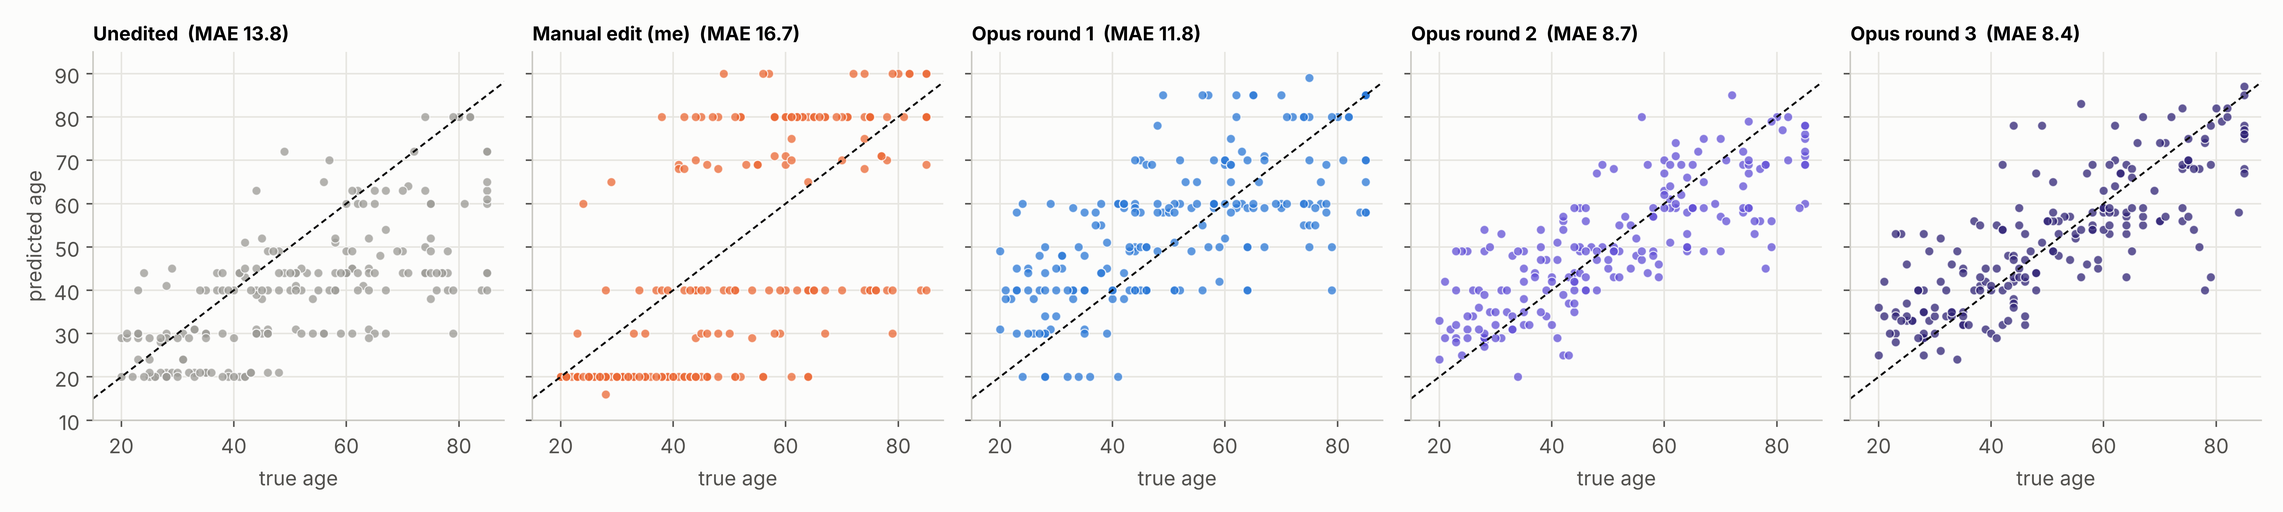
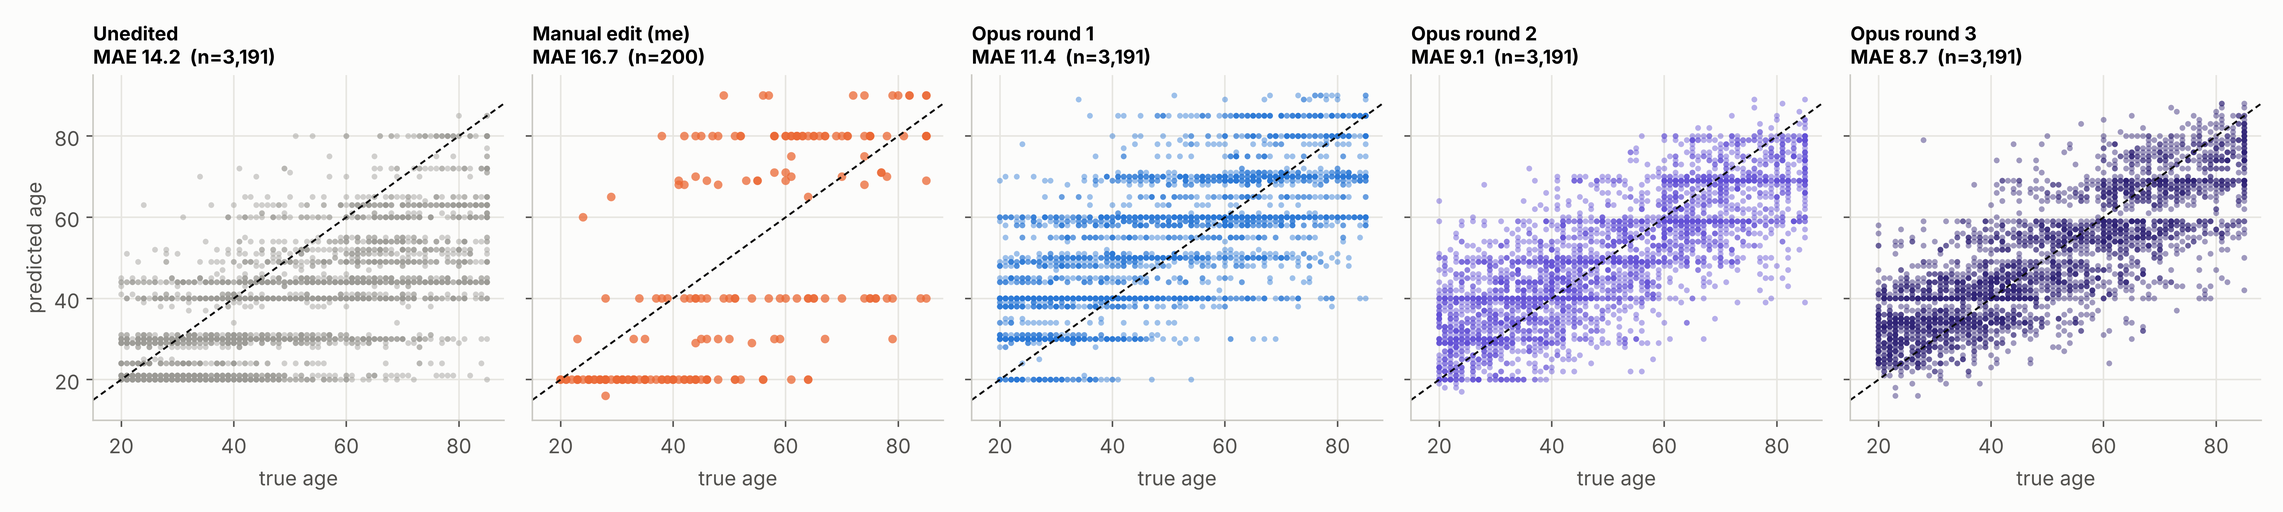
Update post to v2: 3,191-person evaluation, cross-modality and comparator sections
New post body and takeaways, 4 new figures (f17-f20), 8 updated figures,
and f15 replaced by f19. Takeaways card now renders inline bold/italic/code.

Claude-Session: https://claude.ai/code/session_0189EHowxSYNumpzbTHLKZ9i

diff --git a/src/utils/inlineMd.ts b/src/utils/inlineMd.ts
@@ -1,0 +1,12 @@
+/** Minimal inline markdown (`code`, **bold**, *italic*) to safe HTML, for short
+ *  frontmatter strings such as post takeaways. Everything else is escaped. */
+const escapeHtml = (s: string) =>
+  s.replace(/&/g, "&amp;").replace(/</g, "&lt;").replace(/>/g, "&gt;");
+
+const inlineMd = (text: string) =>
+  escapeHtml(text)
+    .replace(/`([^`]+)`/g, "<code>$1</code>")
+    .replace(/\*\*([^*]+)\*\*/g, "<strong>$1</strong>")
+    .replace(/\*([^*]+)\*/g, "<em>$1</em>");
+
+export default inlineMd;

diff --git a/src/styles/lw.css b/src/styles/lw.css
@@ -581,3 +581,11 @@ html[data-toc="open"] .lw-toc-show {
   stroke-linecap: round;
   stroke-linejoin: round;
 }
+
+.lw-takeaways code {
+  font-family: "IBM Plex Mono", monospace;
+  font-size: 0.85em;
+  background: rgba(var(--color-card-muted), 0.45);
+  padding: 0.1em 0.3em;
+  border-radius: 3px;
+}

diff --git a/src/content/blog/ai-agent-edits-biology-model-weights.md b/src/content/blog/ai-agent-edits-biology-model-weights.md
@@ -7,32 +7,36 @@ slug: ai-agent-edits-biology-model-weights
 featured: true
 draft: false
 takeaways:
-  - "Claude Opus 5.5 edited the weights of a small aging-biology model directly, with no training, and cut held-out age error from 13.8 to 8.4 years across three rounds."
-  - "Round 1 unlocked knowledge the model already had: error fell, but correlation with true age did not move."
-  - "Round 2 added new computation, a pooling attention head and five rebuilt neurons, and raised correlation from 0.69 to 0.80. No recalibration of the original model can reach that."
-  - "Round 3 pushed the same direction, but its gain was small and not statistically significant on 200 people."
-  - "Every edit came from Opus agents, and together they touch about 0.14% of the model's weights."
+  - "**An AI agent improved a biology model by editing its weights directly, with no training.** Claude Opus 5.5 cut the age-estimation error of Insilico Medicine's `Qwen3-0.6B-Longevity` from 14.2 to 8.7 years, measured on 3,191 people no agent ever saw."
+  - '**It did two different things.** First it *unlocked* what the model already knew (round 1). Then it *wrote new computation* into the network: a pooling attention head, rebuilt neurons and biomarker "reader" heads that carry information the original model never used (rounds 2 and 3).'
+  - "**The new computation is real information, not recalibration.** No rescaling of the original model's answers gets below 11.1 years of error; the edited model reaches 8.7."
+  - "**The gain is specific to the task it was built for.** The same edits make age prediction from blood *proteins* much worse, and leave age from DNA methylation roughly unchanged. Opus built a specialist."
+  - "**The edited 0.6B model beats all 14 open models we could run, up to 9B parameters,** including Insilico's own 1.7B and 9B longevity models. Most general-purpose models gave no age estimate at all."
 description: 'Claude Opus 5.5 edits Insilico Medicine''s open aging model directly, with no training. A replication and extension of "Sparks of Weight-Space Programming."'
 ---
 
 ## Brief results
 
-We gave **Claude Opus 5.5** read and write access to the raw weights of [`Qwen3-0.6B-Longevity`](https://huggingface.co/insilicomedicine/Qwen3-0.6B-Longevity), a small open model fine-tuned on aging biology. The job was to make it better at estimating a person's **age from a routine blood panel**. It could not train the model with gradient descent. It had to read the weights and activations, decide what to change, and write the change itself. Every number in this table is measured on **200 people the agent never saw**:
+We gave **Claude Opus 5.5** read and write access to the raw weights of [`Qwen3-0.6B-Longevity`](https://huggingface.co/insilicomedicine/Qwen3-0.6B-Longevity), a small open model fine-tuned on aging biology. The job was to make it better at estimating a person's **age from a routine blood panel**. It could not train the model with gradient descent. It had to read the weights and activations, decide what to change, and write the change itself. Every number in this table is measured on **3,191 people no agent ever saw**:
 
 |                | What Opus changed                                     | Age error (MAE) | Correlation with true age |
 | -------------- | ----------------------------------------------------- | --------------- | ------------------------- |
-| Original model | —                                                     | 13.8 years      | 0.69                      |
-| **Round 1**    | 10 rows of the output layer                           | 11.8 years      | 0.67                      |
-| **Round 2**    | a new pooling attention head and 5 rebuilt neurons    | **8.7 years**   | **0.80**                  |
-| **Round 3**    | 3 attention heads rewired to read specific biomarkers | **8.4 years**   | 0.80                      |
+| Original model | —                                                     | 14.2 years      | 0.68                      |
+| **Round 1**    | 10 rows of the output layer                           | 11.4 years      | 0.70                      |
+| **Round 2**    | a new pooling attention head and 5 rebuilt neurons    | **9.1 years**   | **0.79**                  |
+| **Round 3**    | 3 attention heads rewired to read specific biomarkers | **8.7 years**   | **0.81**                  |
 
 The three rounds show three different things:
 
-1. **Round 1 unlocked what the model already knew.** The model's internal age estimate was better than its answers; Opus fixed the read-out. Error dropped, correlation did not change.
-2. **Round 2 changed what the model computes.** Opus wrote new circuitry that carries information to the answer that never reached it before. Error dropped by 5.1 years versus the original (95% CI 3.8 to 6.5) and correlation rose. No recalibration of the original model can reach this result.
-3. **Round 3 went further in the same direction.** The gain was smaller and not statistically significant on 200 people (−0.3 years, CI −1.0 to +0.4). It is a direction with diminishing returns.
+1. **Round 1 mostly unlocked what the model already knew.** The model's internal age estimate was better than its answers; Opus fixed the read-out. Error dropped by 2.8 years; correlation barely moved (+0.016).
+2. **Round 2 changed what the model computes.** Opus wrote new circuitry that carries information to the answer that never reached it before. Error dropped by a further 2.4 years (95% CI 2.1 to 2.6) and correlation rose by 0.10. No recalibration of the original model can reach this result.
+3. **Round 3 went further in the same direction.** A smaller but clearly significant step: −0.37 years (CI −0.54 to −0.19), correlation +0.015. The direction kept paying off, with diminishing returns.
+
+![The three rounds at a glance](/figures/f20_three_rounds.png)
 
 **Every diagnosis, design and weight change in these results was produced by Claude Opus 5.5 agents.** My part was building the sandbox and measuring the results (see Section 3). Along the way, Opus found and fixed a bug that its own round-1 edit had introduced, and that I had missed. A separate Opus agent also identified the model's training domain from the weights alone, without running the model once.
+
+Two results temper the headline, and we report them in full: the edits **break age prediction from proteomics** (Section 10), and the comparison with other open models is strong but **specific to blood-panel age** (Section 11).
 
 ---
 
@@ -65,10 +69,10 @@ An edit is **kept only if dev error improves**; otherwise it is reverted automat
 
 **Keeping it honest.**
 
-- **Disjoint data.** Practice rows, dev rows, the 200-person **held-out test set** and LongevityBench's official _mini_ split never overlap. Each round got fresh dev rows.
-- **Held-out scoring.** The agents never see test labels. Every result in this post is a held-out number unless it says "dev".
+- **Disjoint data.** Practice rows, dev rows, the **held-out set** and LongevityBench's official _mini_ split never overlap. Each round got fresh dev rows. The held-out set is every remaining NHANES participant: 3,191 people, scored on a GPU after all three rounds were finished.
+- **Held-out scoring.** The agents never see held-out labels. Every result in this post is a held-out number unless it says "dev".
 - **Server-side logs.** The sandbox server logged every request the agents made, so their reports could be audited.
-- **Exact reproducibility.** Each edit was rebuilt from the agent's saved code and vectors, and reproduced its dev score exactly.
+- **Exact reproducibility.** Each edit was rebuilt from the agent's saved code and vectors and reproduced its dev score exactly, on CPU and again on a GPU (12.75 → 10.375 → 7.9625 on round 2's dev set; 13.31 → 10.725 → 7.6625 → 7.325 on round 3's).
 - **Division of labour.** I built the sandbox and the evaluation. **Every edit, vector, index and hyper-parameter came from an Opus agent** (details in Section 3).
 
 ## 3. Who did what: where Opus is used and what it contributed
@@ -100,7 +104,7 @@ Opus was used as an **autonomous research agent**. Each agent was a fresh Claude
 - **Round 2's brief** said the goal was a _better age estimate, not recalibration_. It listed directions worth considering: bring in information from other token positions or layers, implant new computation in neurons or attention heads, control the second digit. Opus chose among them, found the specific unused signal, and designed and fitted the circuit.
 - **Round 3's brief** included round 2's results and analysis. It explicitly suggested _targeted_ reading, for example attention that picks out specific biomarker tokens, plus nonlinear features. Opus built essentially that. So round 3's _idea_ was prompted. Opus's contribution there was identifying which three biomarkers, finding the queries that select them, designing the nonlinear decoders, fitting every weight, and evaluating and ablating the result.
 
-**How we know the agents stayed in bounds.** Each agent was told to work only in its own folder and to reach the model only through the sandbox. The sandbox server logged every request independently of the agents' own reports, and those logs match the reports. The one exception is disclosed in Section 10 (Bonus).
+**How we know the agents stayed in bounds.** Each agent was told to work only in its own folder and to reach the model only through the sandbox. The sandbox server logged every request independently of the agents' own reports, and those logs match the reports. The one exception is disclosed in Section 12.
 
 ## 4. Where the model starts
 
@@ -114,7 +118,7 @@ Before running any agent, I checked whether there was a gap between what the net
 
 ![Probes](/figures/f03_probes.png)
 
-- **The Longevity model knows age much better than it says.** A probe on its internal state gets about **10.7 years** of error, while the model's own answers have **13.8**. The information appears abruptly around layer 15.
+- **The Longevity model knows age much better than it says.** A probe on its internal state gets about **10.7 years** of error (cross-validated on practice prompts), while the model's own answers have about **14 years** on held-out people. The information appears abruptly around layer 15.
 - **The base model knows almost nothing about age.** No layer is much better than guessing the median. **Fine-tuning built the age representation.**
 - **Control: mortality.** For 10-year mortality, the probe and the model agree (0.90 vs 0.89). There is no gap and nothing to unlock, so we pointed the agents at age.
 
@@ -137,22 +141,22 @@ Its 7th evaluation was accepted at 9.8. It stopped after 8 of 20 evaluations. Th
 
 ![Digit probabilities](/figures/f08_digit_heatmap.png)
 
-Each row of this heatmap is one held-out person, sorted from youngest to oldest. Each column is the probability the model gives to a first digit. The original model (left) spreads its bets over 2, 3 and 4 for everyone. After round 1, the probability follows the true first digit (the orange staircase).
+Each row of this heatmap is one held-out person, sorted from youngest to oldest. Each column is the probability the model gives to a first digit. The original model (left) spreads its bets over 2, 3 and 4 for everyone. After round 1, the probability follows the true first digit (the orange staircase). Rounds 2 and 3 sharpen it further.
 
 ![Tens digit distribution](/figures/f07_tens_digit.png)
 
 > **Opus's contribution in round 1:** the diagnosis (first digit stuck on 2–4), the edit design (quadratic prior, position gate, end-of-answer guard), every fitted vector and parameter, the recovery from its own failed attempt, and the decision to stop at 8 of 20 evaluations.
 
-### The result: better answers, same knowledge
+### The result: better answers, nearly the same knowledge
 
-On the held-out set, error fell from **13.8 to 11.8 years** (−2.0, CI −3.7 to −0.3). But two numbers did not move:
+On the 3,191 held-out people, error fell from **14.2 to 11.4 years** (−2.8, CI −3.2 to −2.3). But the information measures barely moved:
 
-- **Correlation** with true age was unchanged (0.69 to 0.67).
-- **The best possible rescaling** of the answers was no better than for the original model: 11.1 vs 10.9 years. This is the error left after fitting the best straight-line correction from predicted to true age on the test set itself.
+- **Correlation** with true age rose only from 0.681 to 0.697 (+0.016).
+- **The best possible rescaling** of the answers improved only from 11.07 to 10.84 years. This is the error left after fitting the best straight-line correction from predicted to true age on the held-out set itself.
 
-Round 1 corrected the model's habit of guessing too young. It did not make the model rank people better. **It unlocked knowledge the model already had**, the same kind of fix as the original post's looping repair.
+Round 1 mostly corrected the model's habit of guessing too young. It did not make the model rank people much better. **It unlocked knowledge the model already had**, the same kind of fix as the original post's looping repair.
 
-> **A cautionary baseline.** Before running Opus, I hand-built a simpler version of the same idea: tilt all digit probabilities toward the model's age estimate. Tuned on the same dev rows, it looked fine (13.2), but on held-out data it made error **worse (16.7)**. Without a position gate it also pushed the second digit toward 0, so 89% of its answers ended in zero and collapsed onto 20, 40 and 80. Opus hit the same failure in one evaluation and engineered around it.
+> **A cautionary baseline.** Before running Opus, I hand-built a simpler version of the same idea: tilt all digit probabilities toward the model's age estimate. Tuned on the same dev rows, it looked fine (13.2), but on a 200-person test set it made error **worse (16.7, vs 13.8 for the original model on the same people)**. Without a position gate it also pushed the second digit toward 0, so 89% of its answers ended in zero and collapsed onto 20, 40 and 80. Opus hit the same failure in one evaluation and engineered around it.
 
 ## 7. Round 2: changing what the model computes
 
@@ -186,13 +190,13 @@ Opus used **2 of its 15 evaluations**. The full edit scored 7.96 on dev, from 10
 
 ![Recalibration vs information](/figures/f13_calibration_vs_information.png)
 
-**This is the key figure.** The light bars are each model's error as answered; the dark bars are the error after the best possible rescaling. For the original model and round 1, rescaling stalls at about 11 years. **Round 2's answers are already well calibrated (8.69 as answered, 8.71 rescaled) and sit more than two years below anything rescaling can reach.** Correlation rose from 0.69 to **0.80** (+0.11, CI +0.06 to +0.16).
+**This is the key figure.** The light bars are each model's error as answered; the dark bars are the error after the best possible rescaling. For the original model and round 1, rescaling stalls at about 11 years. **Round 2's answers are already well calibrated (9.07 as answered, 9.10 rescaled) and sit almost two years below anything rescaling can reach.** Correlation rose from 0.70 to **0.79** (+0.10, CI +0.08 to +0.11).
 
 Rescaling cannot create information. So round 2's gain means the model's answers now carry more information about a person's age, delivered by circuitry Opus wrote into the weights.
 
 ![Predicted vs true age](/figures/f06_scatter.png)
 
-The scatter plots show the same thing: round 2's predictions follow the diagonal across the full age range. It also uses the second digit properly: 56 distinct answers instead of 28, and only 16% of answers end in zero, against 42% for the original model.
+The scatter plots show the same thing: round 2's predictions follow the diagonal across the full age range. It also uses the second digit properly: 74 distinct answers instead of 38, and only 18% of answers end in zero, against 42% for the original model.
 
 ## 8. Round 3: pushing the same direction further
 
@@ -208,14 +212,16 @@ So it **rewired three attention heads in layer 24 into "reader" heads**. Each ha
 
 ![Progression](/figures/f16_progression.png)
 
-| 200 held-out people | Error (MAE) | Correlation | Error after best rescaling | Error, ages 75–90 |
-| ------------------- | ----------- | ----------- | -------------------------- | ----------------- |
-| Round 2             | 8.69        | 0.798       | 8.71                       | 13.0              |
-| **Round 3**         | **8.38**    | 0.796       | **8.54**                   | **10.3**          |
+| 3,191 held-out people | Error (MAE) | Correlation | Error after best rescaling | Error, ages 75–90 |
+| --------------------- | ----------- | ----------- | -------------------------- | ----------------- |
+| Round 2               | 9.07        | 0.792       | 9.10                       | 12.3              |
+| **Round 3**           | **8.70**    | **0.807**   | **8.74**                   | **11.4**          |
 
-On the official mini split, error went from 9.87 to **8.89** and correlation from 0.81 to **0.86**.
+**Round 3's step over round 2 is statistically significant on every measure:** error −0.37 years (CI −0.54 to −0.19), correlation +0.015 (CI +0.007 to +0.023), and best-rescaling error 9.10 → 8.74. So it is mostly an information gain. On the official mini split, error went from 9.87 to 8.89 and correlation from 0.81 to 0.86.
 
-Round 3 moves nearly every headline number the right way, and it helps the oldest people most. But **its step over round 2 is not statistically significant** (−0.30 years, CI −0.96 to +0.38), and test correlation is flat. Its own ablation credits only part of the dev gain to the new readers. **The direction kept paying off, with clearly diminishing returns.** Round 2 captured the big structural win: getting biomarker evidence to the answer at all. Round 3 refines which biomarkers are read.
+_(On our original 200-person test set alone, this step looked like noise: −0.30, CI −0.96 to +0.38. The 3,191-person evaluation resolved it.)_
+
+**The direction kept paying off, with clearly diminishing returns.** Round 2 captured the big structural win: getting biomarker evidence to the answer at all. Round 3 refines which biomarkers are read.
 
 ## 9. Checking the whole picture
 
@@ -223,32 +229,81 @@ Round 3 moves nearly every headline number the right way, and it helps the oldes
 
 ![Held-out results](/figures/f05_heldout.png)
 
-| Version          | Test MAE | 95% CI    | Correlation | Best-rescaling MAE | Mini MAE |
-| ---------------- | -------- | --------- | ----------- | ------------------ | -------- |
-| Original         | 13.82    | 12.4–15.3 | 0.688       | 10.90              | 15.33    |
-| My manual edit   | 16.73    | 15.1–18.3 | 0.660       | 11.32              | 15.56    |
-| Opus round 1     | 11.79    | 10.6–13.0 | 0.671       | 11.14              | 11.04    |
-| Opus round 2     | 8.69     | 7.7–9.7   | 0.798       | 8.71               | 9.87     |
-| **Opus round 3** | **8.38** | 7.4–9.5   | 0.796       | **8.54**           | **8.89** |
+| Version          | Held-out MAE (n=3,191) | 95% CI      | Correlation | Best-rescaling MAE | Mini MAE (n=45) |
+| ---------------- | ---------------------- | ----------- | ----------- | ------------------ | --------------- |
+| Original         | 14.18                  | 13.80–14.58 | 0.681       | 11.07              | 15.33           |
+| Opus round 1     | 11.42                  | 11.12–11.73 | 0.697       | 10.84              | 11.04           |
+| Opus round 2     | 9.07                   | 8.84–9.33   | 0.792       | 9.10               | 9.87            |
+| **Opus round 3** | **8.70**               | 8.47–8.94   | **0.807**   | **8.74**           | **8.89**        |
 
-Each round's dev numbers were also confirmed on dev rows nobody had tuned on:
+Paired, on the same 3,191 people:
 
-- round 2's dev set: original 12.75, round 1 10.38, round 2 7.96;
-- round 3's dev set: original 13.31, round 1 10.72, round 2 7.66, round 3 7.33.
+- round 1 vs original: −2.76 years (CI −3.20 to −2.30);
+- round 2 vs round 1: −2.35 (−2.62 to −2.07);
+- round 3 vs round 2: −0.37 (−0.54 to −0.19);
+- **all three rounds vs original: −5.48 (−5.86 to −5.10), correlation +0.127 (+0.111 to +0.142)**.
+
+My manual edit was only scored on the 200-person test set (16.7 vs 13.8 for the original).
 
 ### Who benefits
 
 ![Error by age](/figures/f09_age_bins.png)
 
-The original model is accurate for young people only because it guesses young for everyone. Round 1 traded that away. Rounds 2 and 3 are best in every age band from 30 upward, and round 3 helps the over-75s most. The youngest group (18–30) is still worse than with the original model.
+The original model is accurate for young people only because it guesses young for everyone. Round 1 traded that away. Rounds 2 and 3 are much better for everyone from 30 upward; round 3 is best for ages 30–60 and the over-75s (12.3 → 11.4 years). Two costs remain:
+
+- the youngest group (18–30) is still worse than with the original model (9.9 vs 5.8);
+- round 3 is slightly worse than round 2 for ages 60–75 (9.0 vs 8.0).
 
 ### Side effects: a bug, caught and fixed by Opus
 
-![Multiple choice](/figures/f15_multiple_choice.png)
+![Multiple choice, all tasks](/figures/f19_mc_all_tasks.png)
 
-Round 1's edit had a side effect I missed. On free-form multiple-choice questions, the model started answering with a digit instead of a letter, on **222 of 225** questions. I had checked these tasks only by comparing the probabilities of the option letters, which hid the problem. **The round-2 agent discovered it on its own test prompts and designed its circuit to avoid it.** After round 2, every multiple-choice task matched the original model exactly. Round 3 kept letter answers intact; two tasks changed by one question each, both toward the right answer. Mortality accuracy stayed at 0.875 throughout.
+Round 1's edit had a side effect I missed. On free-form multiple-choice questions, the model started answering with a digit instead of a letter. Across all 13 multiple-choice tasks in LongevityBench's mini split, 27% to 100% of its answers started with a digit, and free-form accuracy fell to near zero on most tasks. I had checked these tasks only by comparing the probabilities of the option letters, which hid the problem. **The round-2 agent discovered it on its own test prompts and designed its circuit to avoid it.** After round 2, every multiple-choice task is back to the original model's accuracy, to within one question, including DNA methylation, gene expression and proteomics tasks the agents never saw. Round 3 keeps this: no task moves by more than one question.
 
-## 10. Bonus: reading a model from its weights alone
+## 10. Does the improvement carry over to other data types?
+
+A model that is better at aging biology should also be better at related tasks. To test this, we ran the edited models on three regression tasks they were never edited for: age from **blood proteins** (Olink proteomics), age from **DNA methylation** (GEO arrays, prompts of 20–30 thousand tokens), and **lifespan change of gene knockouts**.
+
+![Cross-modality](/figures/f17_cross_modality.png)
+
+|          | Blood-panel age (target task, n=3,191) | Protein age (n=40) | DNA-methylation age (n=45) | Lifespan change (n=26) |
+| -------- | -------------------------------------- | ------------------ | -------------------------- | ---------------------- |
+| Original | 14.2                                   | **6.5** (r 0.79)   | 22.6 (r 0.20)              | 18.4 (r 0.78)          |
+| Round 1  | 11.4                                   | 13.4 (r 0.76)      | 25.3 (r 0.38)              | 82.6 (broken output)   |
+| Round 2  | 9.1                                    | 21.2 (r 0.13)      | 22.3 (r 0.53)              | 21.8 (r 0.72)          |
+| Round 3  | **8.7**                                | 17.1 (r 0.26)      | 22.6 (r 0.53)              | **17.6** (r 0.78)      |
+
+_Errors in years (age) or percentage points (lifespan). Answers are capped at plausible limits (0–100 years for protein age, 0–110 for methylation age, −100% to +200% for lifespan change) so a single malformed answer cannot dominate._
+
+- **Age from proteins: every round makes it worse, badly so for rounds 2 and 3.** The original model is already good at this task, better than at blood panels. But the age circuit Opus built fires on _any_ "how old is this person?" question, while the evidence it routes in was fitted only on blood-panel prompts. On a protein profile that evidence is meaningless, and it overrides the model's own good estimate. Round 2 even produces malformed answers such as "008". Opus fitted its gates to stay off for multiple-choice and chat prompts, but never tested age questions from other data types.
+- **Age from DNA methylation: error unchanged, correlation up.** The original model is weak here (22.6 years). Rounds 2 and 3 leave the error the same while correlation rises from 0.20 to 0.53. With 45 people this is suggestive, not conclusive.
+- **Lifespan change: broken by round 1, restored by round 2, slightly improved by round 3.** Round 1's ungated rows corrupted the output format ("7.1%99"). Round 2's gating repaired it.
+- **Multiple choice on every data type is unchanged** (Section 9).
+
+**What this means.** Opus made the model substantially better at the task it was editing for, and it showed real care about the side effects it tested. But the edits _specialise_ the model: they do not make it a better aging model across data types, and they actively damage one. The fix is clear (include other data types' age questions as negative examples when fitting the gates), but it was not part of these runs.
+
+## 11. How does the edited model compare with other open models?
+
+We ran 24 open models on the same 400 held-out people with the same prompts, on a GPU. Answers were parsed from free text: the first number within the first 16 generated tokens. Answers with no number in that window were scored as a constant guess. Fourteen ran successfully. The other ten could not be scored: five gated models (Llama 3.x and Gemma 3, which need a licence-accepted access token), three that hit a full disk during download (SmolLM3-3B, OLMo-2-7B, Granite-3.3-8B), and two that failed to load (LFM2-1.2B, BioMistral-7B).
+
+![Comparators](/figures/f18_comparators.png)
+
+| Model                                                                            | Size     | Gives a number (within 16 tokens) | Age MAE | Correlation |
+| -------------------------------------------------------------------------------- | -------- | --------------------------------- | ------- | ----------- |
+| **Qwen3-0.6B-Longevity + Opus rounds 1–3**                                       | 0.6B     | 100%                              | **9.1** | **0.76**    |
+| Insilico Qwen3-1.7B-Longevity                                                    | 2.0B     | 98%                               | 16.4    | 0.65        |
+| Qwen3-0.6B-Longevity (original)                                                  | 0.6B     | 100%                              | 14.3    | 0.64        |
+| Insilico longevity-llm (Qwen3.5-9B)                                              | 9.0B     | 100%                              | 19.4    | 0.60        |
+| Qwen2.5-1.5B-Instruct                                                            | 1.5B     | 86%                               | 15.4    | 0.16        |
+| Qwen3-4B, Qwen3-8B, Qwen2.5-3B, Qwen2.5-7B, Phi-3.5-mini, Phi-4-mini, Mistral-7B | 3–8B     | **0%**                            | —       | —           |
+| Qwen3-0.6B, Qwen3-1.7B, Qwen2.5-0.5B (base/instruct)                             | 0.5–1.7B | 2–36%                             | —       | ≤ 0         |
+| SmolLM2-1.7B-Instruct                                                            | 1.7B     | 90%                               | 18.1    | −0.06       |
+
+- **General-purpose open models do not do this task, at least not directly.** Seven models of 3–8 billion parameters gave no number within the first 16 tokens in any of the 400 cases. The smaller Qwen models we inspected on CPU typically refused outright (_"The participant's age is not provided in the clinical profile"_). Some larger, wordier models may give a number after a longer preamble, which this protocol does not capture. The small models that do answer show no relationship with true age.
+- **Domain fine-tuning creates the ability.** All three Insilico longevity models answer with real signal (correlation 0.60–0.65).
+- **Opus's edits make the 0.6B model the best of all 14, on this task:** correlation 0.76 and 9.1 years of error, against 16.4 for Insilico's 3× larger 1.7B model and 19.4 for its 15× larger 9B model. Given Section 10, that claim is specific to blood-panel age.
+
+## 12. Bonus: reading a model from its weights alone
 
 The original post also showed that an LLM can work out what a network was trained on _from its weights alone_. We tried the same thing. A separate Opus agent got two checkpoints with neutral names: the Longevity model and the base Qwen3-0.6B, made identical in format. It was **not allowed to run either model**, only to do arithmetic on the weights.
 
@@ -268,37 +323,39 @@ The forensic trick is elegant. Weight decay shrinks _every_ weight at each step,
 
 _Integrity note: during the run the agent's process listing briefly showed another job's command line, which contained the model's name. Its time-stamped logs show it had already reached the aging conclusion from the weights._
 
-## 11. How large are these edits?
+## 13. How large are these edits?
 
 ![Edit size](/figures/f10_footprint_vs_post.png)
 
 All three rounds together change 0.14% of the model's weights. That is between the original post's two headline edits (0.016% for the looping fix, 3.5% for a game-policy repair), though the tasks are not comparable.
 
-## 12. What this shows
+## 14. What this shows
 
-1. **Weight-space programming works on a biology model.** With a small evaluation budget and no training, Opus cut held-out age error by 5.4 years (CI 3.9 to 7.0), from 13.8 to 8.4.
+1. **Weight-space programming works on a biology model.** With a small evaluation budget and no training, Opus cut held-out age error on its target task by 5.5 years (CI 5.1 to 5.9), from 14.2 to 8.7, on 3,191 people no agent saw.
 2. **It goes beyond unlocking.** Round 1 behaved like the original post's result: it removed an obstacle between what the model knew and what it said. Round 2 is different. Opus built new circuitry, a pooling head and gated neurons, that delivers information the original output path never had. Correlation and the rescaling test show the model genuinely knows more.
-3. **Progress in that direction continued, but with diminishing returns.** Round 3 made a smaller, not-yet-significant step in the same direction.
-4. **The agent was careful in ways that mattered.** Opus engineered safeguards after a failure, ran its own ablations, flagged its own dev-selection risks, and caught a side effect I had missed.
-5. **The division of labour.** I chose the task and, from round 2 on, framed which _kinds_ of improvement to look for. The agents did the discovery, the design and the weight-writing.
+3. **Progress in that direction continued, with diminishing returns.** Round 3 made a smaller but significant step in the same direction.
+4. **The gains are specific to the target task.** The same edits make age prediction from proteomics much worse, and leave methylation age roughly unchanged. A careful agent, rewarded on one task, built a specialist; generality has to be part of what it is asked to protect.
+5. **The agent was careful in ways that mattered.** Opus engineered safeguards after a failure, ran its own ablations, flagged its own dev-selection risks, and caught a side effect I had missed.
+6. **The division of labour.** I chose the task and, from round 2 on, framed which _kinds_ of improvement to look for. The agents did the discovery, the design and the weight-writing.
 
-## 13. Limitations
+## 15. Limitations
 
-- **Small samples, one run per round.** Test is 200 people and mini 45. Round 3's step is within noise.
+- **One run per round.** Each round was one agent run. The main held-out result uses 3,191 people, but the cross-modality tasks have only 26–45 prompts each.
 - **Dev numbers are optimistic.** All dev results were partly selected; only held-out numbers count.
 - **Partly read-out.** By Opus's ablations, about a third of round 2's dev gain comes from routed information and the rest from a better read-out. Both are new weights, but only the first is new information.
+- **Specialisation.** The edits hurt age prediction from proteomics (Section 10).
 - **The youngest participants** are still worse off than with the original model.
-- **Scope.** These are NHANES blood-panel tasks, in non-thinking mode, on a CPU. A larger evaluation is running in the Colab notebook below. It covers about 3,200 held-out people, all 17 LongevityBench tasks (including DNA methylation and proteomics) and about 24 open-source comparison models.
+- **Comparators.** Ten of 24 comparison models could not be scored (gated, disk or load failures), including Llama and Gemma. Answers were read from the first 16 tokens only, which under-counts models that answer after a long preamble.
 - **The sandbox shapes the solutions.** I chose the tools; different tools could lead the agent elsewhere.
 - **Licences.** The model is CC-BY-ND, so we share the _recipe_ (code and vectors that rebuild each edit from the original weights), not edited weights.
 
-## 14. Reproduce it
+## 16. Reproduce it
 
 - **`opus_weight_edits_longevity.ipynb`** with **`opus_edits_bundle.pt`** (195 KB). The bundle contains only Opus-computed vectors, code, the agents' own summaries and the server logs. The notebook does the following:
   - applies each round's edit exactly;
   - shows the live weight differences;
   - re-checks the dev numbers;
-  - runs the large evaluation and the open-model comparisons;
+  - evaluates on every remaining NHANES participant (3,191), all 17 LongevityBench mini tasks including DNA methylation, and up to 24 open comparison models;
   - exports all figure data.
 - **`weight_space_longevity.ipynb`** runs the whole editing loop with an _open_ editor (Qwen3 or Kimi K2).
 
